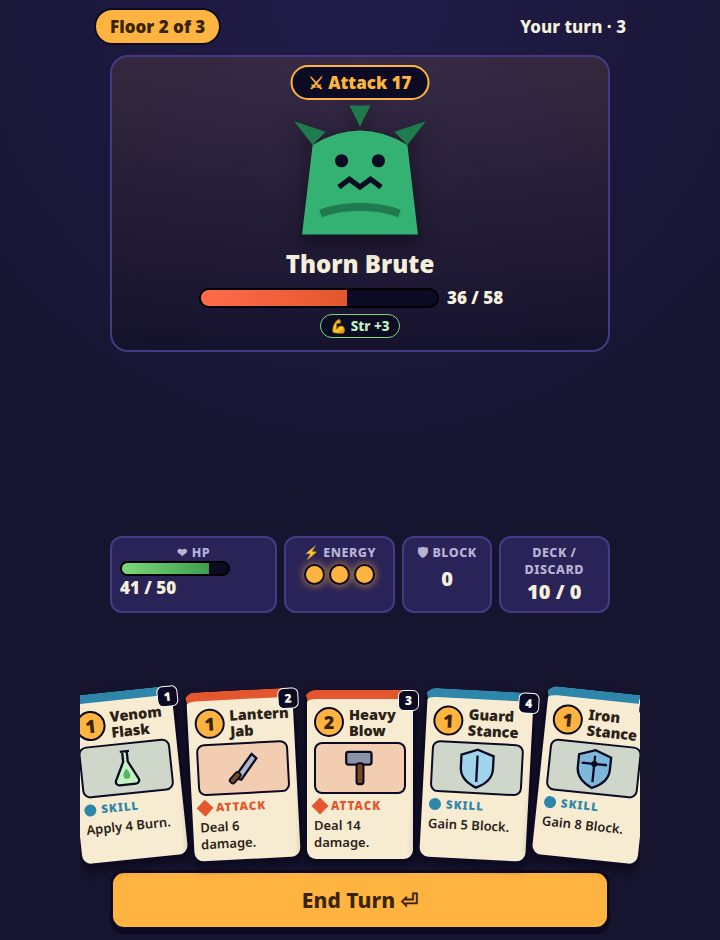
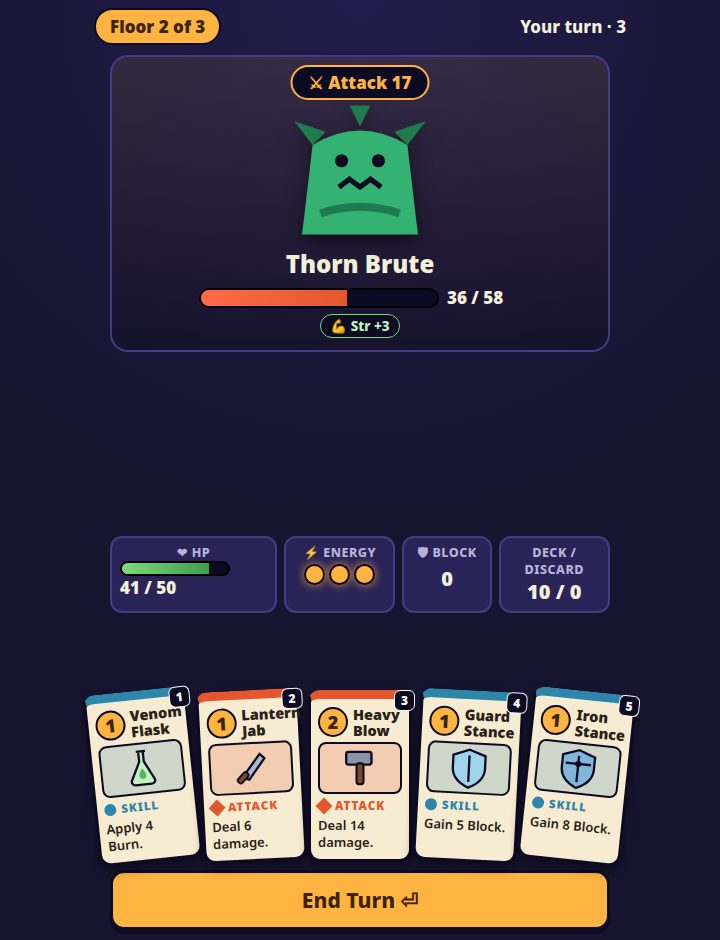
Spire Mini: hand padding fix, win shot from real simulated run, README
- Hand container gets 18px horizontal padding and layoutHand fits inside
  the padded content box, so edge cards (fan rotation + hover lift) no
  longer clip at 360/390/430px.
- Win screenshot staged from a real greedy-bot run through the engine on
  this build (stats counted like main.js), replacing the hardcoded
  placeholder numbers; all screenshots retaken from the latest build.
- README with make.fun badges.

Changed region(s): [[0.0917, 0.7096, 0.8861, 0.9255]]

diff --git a/game/js/shots.js b/game/js/shots.js
@@ -1,11 +1,14 @@
 // Screenshot staging for Spire Mini. Opening the game with ?shot=<name>
 // (and an optional &seed=) builds a fixed, seeded state so screenshots are
 // reproducible: a rich mid-battle table, the reward draft, and the two end
-// screens. Normal play never passes through here.
+// screens. The win screen is staged from a REAL simulated run (a simple
+// greedy bot playing the actual engine on the current build, stats counted
+// exactly like main.js counts them), so its numbers are genuine for this
+// build. Normal play never passes through here.
 
-import { createBattle, playCard, endPlayerTurn } from './battle.js';
-import { createRun, currentEnemy, rewardChoices, REST_HEAL } from './state.js';
-import { makeCard } from './cards.js';
+import { createBattle, playCard, endPlayerTurn, currentIntent, drainEvents, collectDeck } from './battle.js';
+import { createRun, currentEnemy, rewardChoices, takeReward, upgradeableCards, upgradeCard, advanceRun, FLOORS, REST_HEAL } from './state.js';
+import { makeCard, resolveCard } from './cards.js';
 import { showScreen, renderReward, renderStats, renderDeckList } from './render.js';
 
 function stageBattle(seed) {
@@ -45,22 +48,120 @@ function stageReward(seed) {
   return { run, battle: null, choices };
 }
 
-function stageEnd(seed, won) {
+// --- Greedy bot: plays a full run through the real engine -----------------
+// Same simple policy as the balance simulation: block big telegraphed hits,
+// powers and draw early, best damage-per-energy attacks, leftover block.
+function botIncoming(b) {
+  const m = currentIntent(b);
+  return m.kind === 'attack' ? m.amount + b.enemy.strength : 0;
+}
+function botDrainStats(b, run) {
+  for (const ev of drainEvents(b)) {
+    if (ev.type === 'damage' && ev.target === 'enemy') run.stats.damageDealt += ev.hpLost;
+  }
+}
+function botPlayTurn(b, run) {
+  let guard = 0;
+  while (b.phase === 'player' && guard++ < 40) {
+    const hand = b.hand.map((c, i) => ({ c, i, r: resolveCard(c) }));
+    const afford = hand.filter((h) => h.r.cost <= b.player.energy);
+    if (!afford.length) break;
+    const inc = botIncoming(b);
+    let pick = null;
+    if (inc >= 8 && b.player.block < inc) {
+      const blocks = afford.filter((h) => h.r.effects.block);
+      if (blocks.length) pick = blocks.sort((a, z) => z.r.effects.block - a.r.effects.block)[0];
+    }
+    if (!pick) pick = afford.find((h) => h.r.type === 'power');
+    if (!pick) pick = afford.find((h) => h.r.effects.draw && !h.r.effects.damage);
+    if (!pick) {
+      const atks = afford.filter((h) => h.r.effects.damage);
+      if (atks.length) {
+        pick = atks.sort((a, z) =>
+          (z.r.effects.damage * (z.r.effects.hits || 1) / Math.max(1, z.r.cost)) -
+          (a.r.effects.damage * (a.r.effects.hits || 1) / Math.max(1, a.r.cost)))[0];
+      }
+    }
+    if (!pick) pick = afford.find((h) => h.r.effects.block || h.r.effects.heal || h.r.effects.energy);
+    if (!pick) break;
+    if (!playCard(b, pick.i, run.rng)) break;
+    run.stats.cardsPlayed += 1;
+    botDrainStats(b, run);
+  }
+}
+function botCardScore(r) {
+  const fx = r.effects;
+  let s = 0;
+  if (fx.damage) s += fx.damage * (fx.hits || 1) / Math.max(1, r.cost);
+  if (fx.block) s += fx.block / Math.max(1, r.cost) * 0.8;
+  if (fx.draw) s += 2.5;
+  if (r.type === 'power') s += 3;
+  return s;
+}
+function botChooseReward(run) {
+  const choices = rewardChoices(run);
+  let best = null, bestScore = 3; // upgrading a Jab (+3 dmg) is the bar
+  for (const ch of choices) {
+    const s = botCardScore(resolveCard({ id: ch.id, upgraded: ch.upgraded }));
+    if (s > bestScore) { bestScore = s; best = ch; }
+  }
+  if (best) { takeReward(run, best); return; }
+  const ups = upgradeableCards(run);
+  if (ups.length) {
+    const jab = ups.find((c) => c.id === 'jab') || ups[0];
+    upgradeCard(run, jab.uid);
+  }
+}
+// Plays one full run; returns the finished run on a win, null on a loss.
+// Stats are counted exactly like main.js counts them in real play.
+function simulateRun(seed) {
   const run = createRun(seed);
-  run.floor = won ? 3 : 2;
-  run.deck.push(makeCard('executioner'), makeCard('bulwark'), makeCard('keen-eye'));
-  run.stats = { battlesWon: won ? 3 : 1, cardsPlayed: 34, damageDealt: 187, turnsTaken: 14 };
+  for (let f = 0; f < FLOORS; f++) {
+    const b = createBattle({
+      deck: run.deck, playerHp: run.playerHp, maxHp: run.maxHp,
+      enemy: currentEnemy(run), rng: run.rng,
+    });
+    drainEvents(b);
+    let turns = 0;
+    while (b.phase === 'player' && turns++ < 60) {
+      botPlayTurn(b, run);
+      if (b.phase === 'player') {
+        run.stats.turnsTaken += 1;
+        endPlayerTurn(b, run.rng);
+        botDrainStats(b, run);
+      }
+    }
+    run.playerHp = b.player.hp;
+    run.deck = collectDeck(b);
+    if (b.phase === 'lost') return null;
+    if (run.floor >= FLOORS) { run.stats.battlesWon += 1; return run; }
+    botChooseReward(run);
+    advanceRun(run);
+  }
+  return run;
+}
+
+function stageEnd(seed, won) {
   if (won) {
+    // A real run on this build: first seed at/after the given one whose
+    // greedy-bot run actually wins, rendered with its genuine stats.
+    let run = null;
+    for (let s = seed; s < seed + 50 && !run; s++) run = simulateRun(s);
+    if (!run) run = createRun(seed); // unreachable in practice; never blank
     renderStats('win-stats', run);
     renderDeckList('win-deck', run);
     showScreen('win');
-  } else {
-    document.getElementById('lose-sub').textContent =
-      'Your lantern sputters and dies on floor 2, slain by the Thorn Brute.';
-    renderStats('lose-stats', run);
-    renderDeckList('lose-deck', run);
-    showScreen('lose');
+    return { run, battle: null };
   }
+  const run = createRun(seed);
+  run.floor = 2;
+  run.deck.push(makeCard('executioner'), makeCard('bulwark'), makeCard('keen-eye'));
+  run.stats = { battlesWon: 1, cardsPlayed: 34, damageDealt: 187, turnsTaken: 14 };
+  document.getElementById('lose-sub').textContent =
+    'Your lantern sputters and dies on floor 2, slain by the Thorn Brute.';
+  renderStats('lose-stats', run);
+  renderDeckList('lose-deck', run);
+  showScreen('lose');
   return { run, battle: null };
 }
 

diff --git a/game/js/render.js b/game/js/render.js
@@ -172,8 +172,13 @@ export function layoutHand(hand) {
   const n = cards.length;
   if (!n) return;
   // The hand may fan wider than its 500px column on wide screens (up to
-  // the 560px app width), matching the original desktop look.
-  const containerW = Math.max(hand.clientWidth || 332, Math.min(560, window.innerWidth - 16));
+  // the 560px app width), matching the original desktop look. Fit inside
+  // the padded content box: the horizontal padding absorbs the fan
+  // rotation and hover lift of the edge cards, so they never clip at the
+  // viewport edge (body overflow is hidden).
+  const cs = getComputedStyle(hand);
+  const padX = (parseFloat(cs.paddingLeft) || 0) + (parseFloat(cs.paddingRight) || 0);
+  const containerW = Math.max((hand.clientWidth || 332) - padX, Math.min(560, window.innerWidth - 16) - padX);
   const BASE_W = 118, MIN_W = 78;
   let cardW = BASE_W;
   let overlap = 0;

diff --git a/game/css/style.css b/game/css/style.css
@@ -234,7 +234,7 @@ body {
 /* ---------- Cards ---------- */
 .hand {
   display: flex; justify-content: center; align-items: flex-end;
-  min-height: 204px; padding-top: 30px; position: relative;
+  min-height: 204px; padding: 30px 18px 0; position: relative;
 }
 .card {
   width: var(--card-w, 118px); min-height: 172px; flex: 0 0 auto;

diff --git a/README.md b/README.md
@@ -1,0 +1,26 @@
+# spire-mini-20261123
+
+[![make.fun · best-card-game-20261122-1826](https://make.fun/badge/best-card-game-20261122-1826.svg)](https://make.fun/bounty/best-card-game-20261122-1826?utm_source=github&utm_medium=readme&utm_campaign=best-card-game-20261122-1826)
+[![rank](https://make.fun/badge/best-card-game-20261122-1826/Koceng144/spire-mini-20261123/rank.svg)](https://make.fun/bounty/best-card-game-20261122-1826/leaderboard?utm_source=github&utm_medium=readme&utm_campaign=best-card-game-20261122-1826)
+[![reward](https://make.fun/badge/best-card-game-20261122-1826/Koceng144/spire-mini-20261123/reward.svg)](https://make.fun/bounty/best-card-game-20261122-1826?utm_source=github&utm_medium=readme&utm_campaign=best-card-game-20261122-1826)
+
+Entry for the [make.fun bounty "Make the best card game"](https://make.fun/bounty/best-card-game-20261122-1826).
+
+**Spire Mini** is a Slay-the-Spire-style roguelike deckbuilder in one static page: climb 3 floors (a normal foe, an elite, then the Lantern Warden boss), read each enemy's telegraphed intent before your turn, and build your deck from 24 unique cards — attacks, block, buffs and draw, each with an upgraded version. Win a battle and draft 1 of 3 reward cards (or upgrade one you own); lose and the lantern dies. Card animations (deal, hover lift, drag to the enemy), floating damage numbers, WebAudio sound effects, a portrait phone layout with thumb-reach buttons, and a short tutorial on the title screen. No build step, no dependencies, no network requests.
+
+## Run it
+
+```sh
+node serve.ts
+# then open http://localhost:8080
+```
+
+Or open `game/index.html` directly in a browser.
+
+## The files
+
+- `game/` — the game itself: `index.html`, `css/style.css`, and one-job-per-file modules in `game/js/` (`cards`, `enemies`, `battle`, `state`, `render`, `input`, `audio`, `random`, `main`, `shots`).
+- `main.ts` — the make.fun hand-in: copies `game/` and `screenshots/` to the output and writes `dossier.json` via `vendor/makefun-game.ts`.
+- `screenshots/` — title, mid-battle, reward draft and win screens.
+- `serve.ts` — tiny local static server for development.
+- `LICENSE` — MIT.
